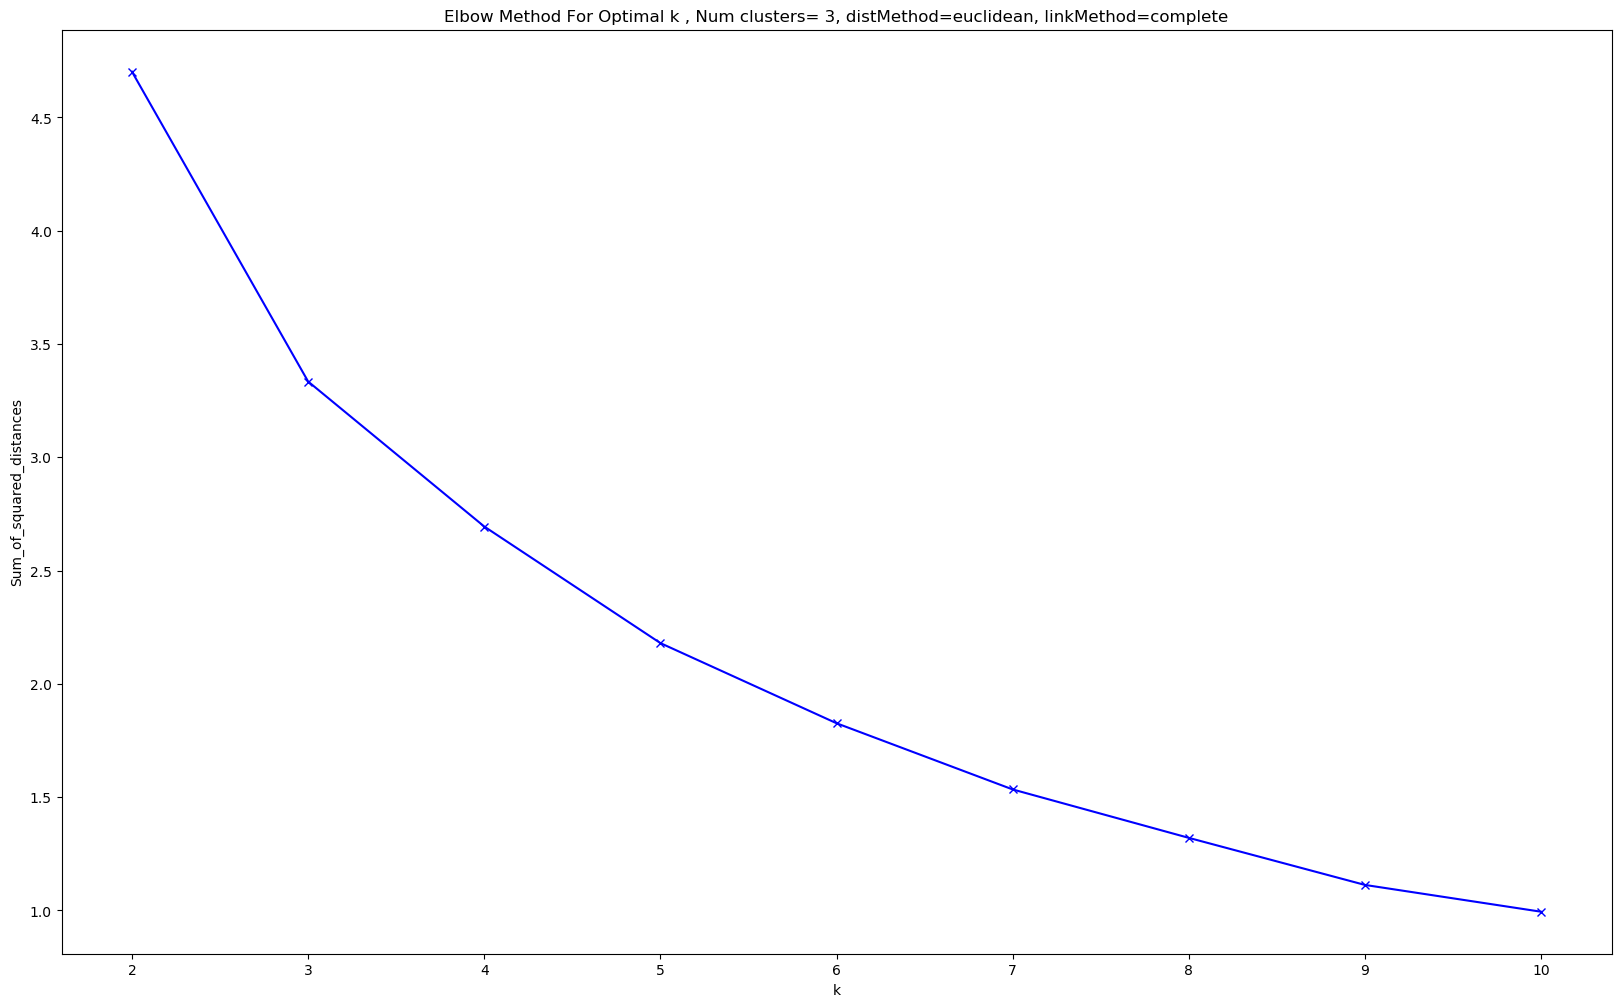
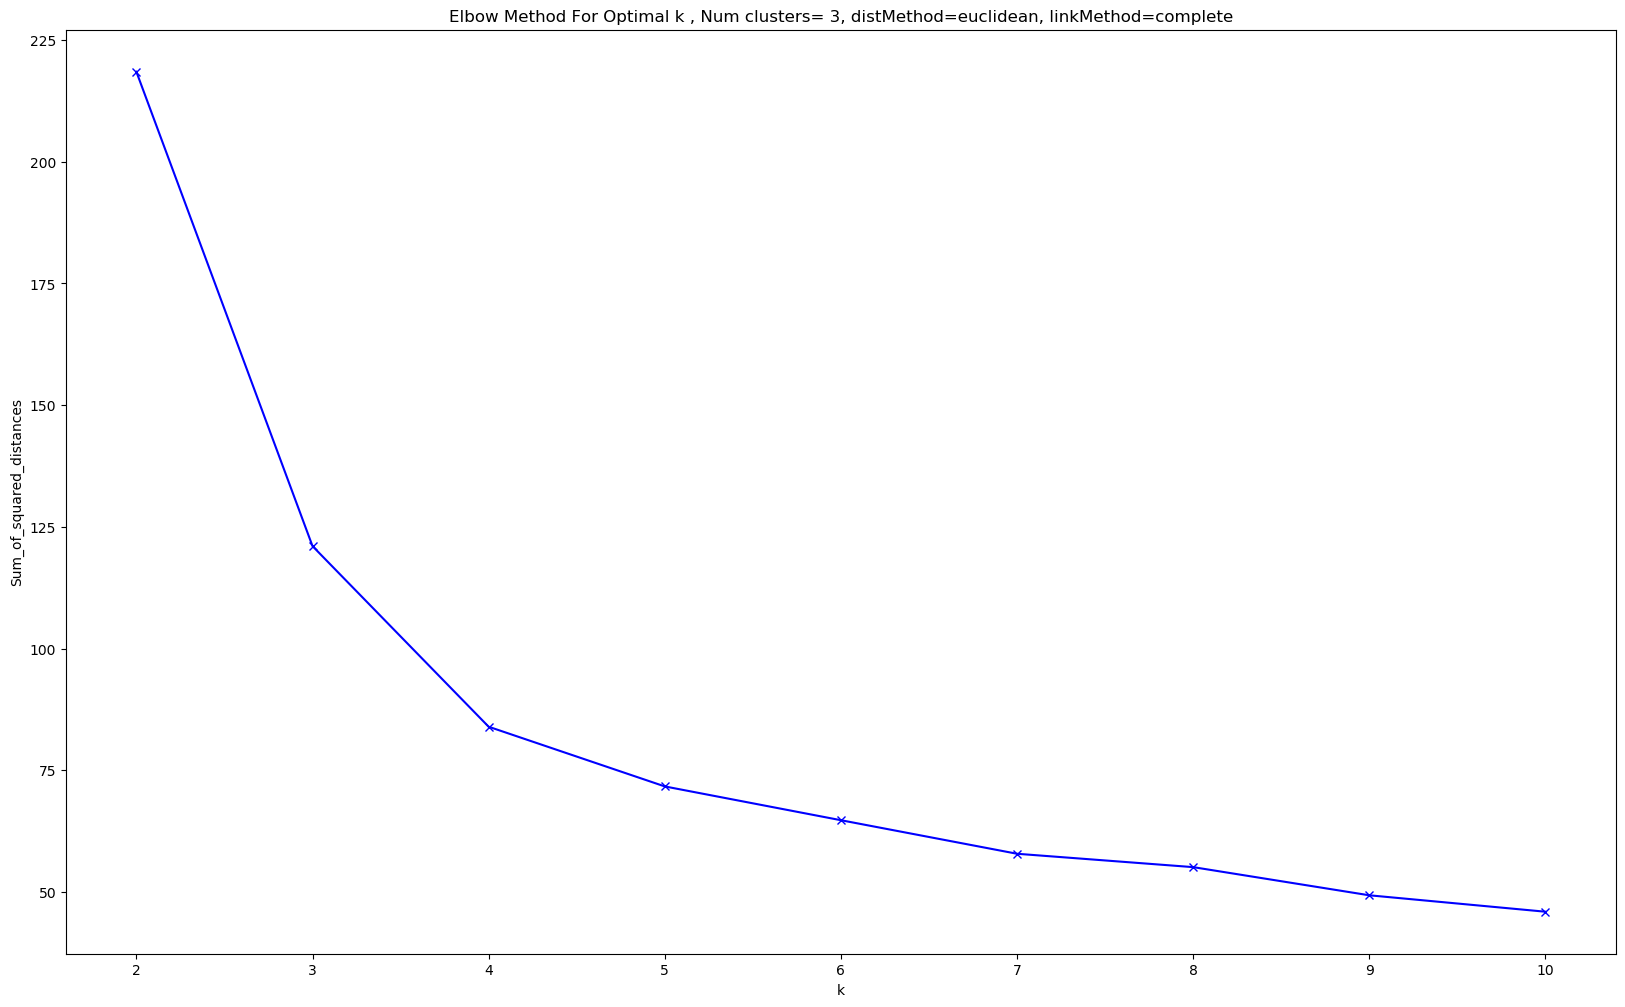
normalization corrected

diff --git a/functionOtimize.py b/functionOtimize.py
@@ -8,6 +8,8 @@ from sklearn.metrics import silhouette_samples, silhouette_score
 from sklearn import preprocessing
 import skfuzzy  as  fuzz
 
+normalizeMtd=[preprocessing.StandardScaler().fit_transform,preprocessing.MinMaxScaler().fit_transform]
+
 def autolabel(rects,ax):
     for rect in rects:
         height = rect.get_height()
@@ -36,7 +38,6 @@ def fancy_dendrogram(*args, **kwargs):
     plt.axhline(y=max_d, c='k',linewidth=4,label='Cutoff line')
     plt.legend()
     dendrogram(*args, **kwargs)
-    print("stop")
 
 def plotFunction(function,*positionalParm,**keyParam):
     plt.figure(figsize=(20.0, 12.0))
@@ -51,7 +52,8 @@ def plotFunction(function,*positionalParm,**keyParam):
 def plotBiDispersidade(data,cluster,i,centroids=[],title="scatter"):
     plt.figure(figsize=(20.0, 12.0))
     plt.scatter(data[:,i],data[:,i+1],c=cluster,cmap='viridis',s=50, label='True  Position')#para  permitir  um  gráfico  de  dispersão  dos dados bidimensionais
-
+    plt.xlabel("Feature "+str(i))
+    plt.ylabel("Feature "+str(i+1))
     for label, x, y in zip(range(1,len(data)), data[:, 0], data[:, 1]):  # procedimento para incluir etiquetas junto aos pontos 
         plt.annotate(label, xy=(x, y),textcoords='offset points', ha='right', va='bottom')
     
@@ -68,7 +70,7 @@ def computeExcelData(excelDataSet,cmpMissData=1,adaptData=1,distanceMethod="eucl
     #Normalização é feita por feature 
     #https://scikit-learn.org/stable/modules/preprocessing.html
     excelDataSet.fillna(excelDataSet.mean(),inplace=True) if cmpMissData else  excelDataSet.dropna(inplace=True) 
-    data=preprocessing.StandardScaler().fit_transform(np.array(excelDataSet.values)[:,1:]) if adaptData else preprocessing.normalize(np.array(excelDataSet.values)[:,1:])
+    data=normalizeMtd[adaptData](np.array(excelDataSet.values)[:,1:])
     dataDist=pdist(data,distanceMethod)
     dataLink=linkage(dataDist,linkageMethod)
     print(excelDataSet.isnull().sum())
@@ -76,7 +78,6 @@ def computeExcelData(excelDataSet,cmpMissData=1,adaptData=1,distanceMethod="eucl
     return excelDataSet.columns.values,data,dataDist,dataLink
 
 def clusterHAlgorithm(data,dataLink,numCluster,strMethod):
-    
     C=fcluster(dataLink,numCluster,'maxclust')
     centroids=np.zeros([numCluster,len(data[0])])
     numObjCluster=np.zeros([numCluster])

diff --git a/Clustering_GrupoF.py b/Clustering_GrupoF.py
@@ -4,7 +4,7 @@
 from functionOtimize import *
 import argparse
 clusteringMtd=[clusterHAlgorithm,kMeansAlgorithm,fuzzyCmeansAlgorithm]
-
+normStr=["Min_Max","StandarScaler"]
 def readArgs():
     parser = argparse.ArgumentParser(description='Optimization and Machine Learning (MEEE-IPL).'
                                     ,formatter_class=argparse.RawTextHelpFormatter)
@@ -19,8 +19,8 @@ def readArgs():
     Yes : 1''')
     parser.add_argument('-a',type=int,default=0,
     help='''Adapt Data:
-    Normalize    : 0 
-    Standardize  : 1''')
+    Normalize (Min_Max) : 0 
+    Standardize         : 1''')
     parser.add_argument('-dt',type=str,default="euclidean",
     help='''Pairwise Distance method availabe: braycurtis, canberra, chebyshev,
     cityblock, correlation, cosine, dice, euclidean, hamming, jaccard,
@@ -37,9 +37,8 @@ def readArgs():
     args = parser.parse_args()
     return args.d.split(" "),args.c,args.a,args.dt,args.ml,args.nc,args.cmt
 
-
 [[datasetpath,numSkipedRow,sheetname],cmpMissData,adaptData,distanceMethod,linkageMethod,numCluster,cmt]=readArgs()
-strMethod=", Num clusters= "+str(numCluster)+", distMethod="+distanceMethod+", linkMethod="+linkageMethod
+strMethod=", "+normStr[adaptData]+", Num clusters= "+str(numCluster)+", distMethod="+distanceMethod+", linkMethod="+linkageMethod
 
 dataset=readExcel(datasetpath,int(numSkipedRow),sheetname)
 [labels,data,dataDist,dataLink]=computeExcelData(dataset,cmpMissData,adaptData,distanceMethod,linkageMethod)
